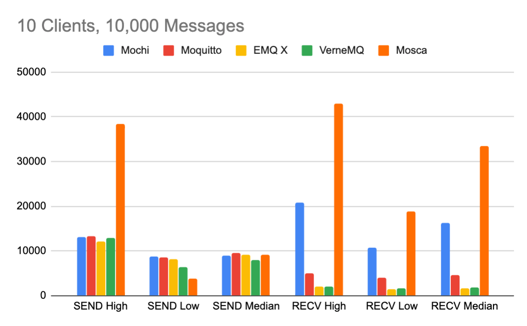
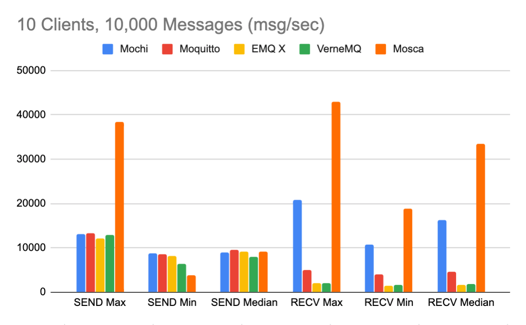
Update Chart Labels

diff --git a/README.md b/README.md
@@ -44,11 +44,11 @@ Performance benchmarks were tested using [MQTT-Stresser](https://github.com/inov
 
 |              | Mochi     | Mosquitto   | EMQX     | VerneMQ   | Mosca   |  
 | :----------- | --------: | ----------: | -------: | --------: | --------:
-| SEND High    | 36505  |   30597  | 27202  | 32782  | 30125   |
-| SEND Low    |  36505    |  30597  | 27202   |  32782  | 30125  |
+| SEND Max    | 36505  |   30597  | 27202  | 32782  | 30125   |
+| SEND Min    |  36505    |  30597  | 27202   |  32782  | 30125  |
 | SEND Median  | 36505   | 30597   | 27202   |32782    | 30125  |
-| RECV High    | 152221  |  59130  | 7879   | 17551   | 9145   |
-| RECV Low    | 152221  | 59130   | 7879   |  17551    |  9145    |
+| RECV Max    | 152221  |  59130  | 7879   | 17551   | 9145   |
+| RECV Min    | 152221  | 59130   | 7879   |  17551    |  9145    |
 | RECV Median    | 152221  |  59130  | 7879   |  17551   |  9145   |
 
 **10 Clients, 1,000 Messages**
@@ -59,11 +59,11 @@ Performance benchmarks were tested using [MQTT-Stresser](https://github.com/inov
 
 |              | Mochi     | Mosquitto   | EMQX     | VerneMQ   | Mosca   |  
 | :----------- | --------: | ----------: | -------: | --------: | --------:
-| SEND High    |  37193 | 	15775 |	17455 |	34138 |	36575  |
-| SEND Low    |   6529 |	6446 |	7714 |	8583 |	7383      |
+| SEND Max    |  37193 | 	15775 |	17455 |	34138 |	36575  |
+| SEND Min    |   6529 |	6446 |	7714 |	8583 |	7383      |
 | SEND Median  |  15127 |	7813 | 	10305 |	9887 |	8169     |
-| RECV High    |  33535	 | 3710	| 3022 |	4534 |	9411    |
-| RECV Low    |   7484	| 2661	| 1689 |	2021 |	2275     |
+| RECV Max    |  33535	 | 3710	| 3022 |	4534 |	9411    |
+| RECV Min    |   7484	| 2661	| 1689 |	2021 |	2275     |
 | RECV Median    |   11427 |  3142 | 1831 |	2468 |	4692      |
 
 **10 Clients, 10,000 Messages**
@@ -74,11 +74,11 @@ Performance benchmarks were tested using [MQTT-Stresser](https://github.com/inov
 
 |              | Mochi     | Mosquitto   | EMQX     | VerneMQ   | Mosca   |  
 | :----------- | --------: | ----------: | -------: | --------: | --------:
-| SEND High    |   13153 |	13270 |	12229 |	13025 |	38446  |
-| SEND Low    |  8728	| 8513	| 8193 | 	6483 |	3889    |
+| SEND Max    |   13153 |	13270 |	12229 |	13025 |	38446  |
+| SEND Min    |  8728	| 8513	| 8193 | 	6483 |	3889    |
 | SEND Median  |   9045	| 9532	| 9252 |	8031 |	9210    |
-| RECV High    |  20774	| 5052	| 2093 |	2071 | 	43008    |
-| RECV Low    |   10718	 |3995	| 1531	| 1673	| 18764   |
+| RECV Max    |  20774	| 5052	| 2093 |	2071 | 	43008    |
+| RECV Min    |   10718	 |3995	| 1531	| 1673	| 18764   |
 | RECV Median    |  16339 |	4607 |	1620 | 	1907	| 33524  |
 
 **500 Clients, 100 Messages**
@@ -89,11 +89,11 @@ Performance benchmarks were tested using [MQTT-Stresser](https://github.com/inov
 
 |              | Mochi     | Mosquitto   | EMQX     | VerneMQ   | Mosca   |  
 | :----------- | --------: | ----------: | -------: | --------: | --------:
-| SEND High    |  70688	| 72686	| 71392 |	75336 |	73192   |
-| SEND Low    |   1021	| 2577 |	1603 |	8417 |	2344  |
+| SEND Max    |  70688	| 72686	| 71392 |	75336 |	73192   |
+| SEND Min    |   1021	| 2577 |	1603 |	8417 |	2344  |
 | SEND Median  |  49871	| 33076 |	33637 |	35200 |	31312   |
-| RECV High    |  116163 |	4215 |	3427 |	5484 |	10100 |
-| RECV Low    |   1044	| 156 | 	56 | 	83	| 169   |
+| RECV Max    |  116163 |	4215 |	3427 |	5484 |	10100 |
+| RECV Min    |   1044	| 156 | 	56 | 	83	| 169   |
 | RECV Median    |     24398 | 208 |	94 |	413 |	474     |
 
 #### Using the Broker
